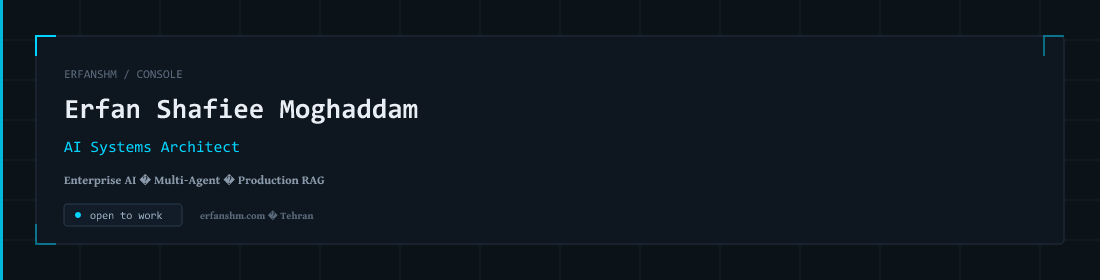
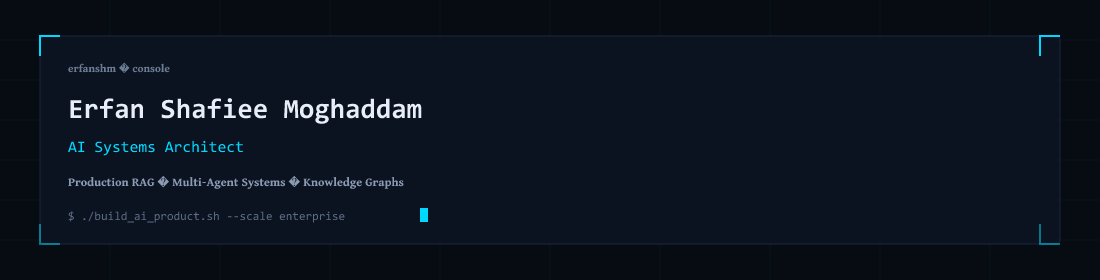
Enhance README.md with updated visuals and content structure; modify SVG assets for improved aesthetics and consistency. Update GitHub stats workflow to reflect new color scheme and enhance session reel animation for better engagement.

diff --git a/README.md b/README.md
@@ -1,111 +1,152 @@
 <!--
   ErfanShm Profile README
-  Moderate console aesthetic · cyan #00d4ff · light HUD cues (not full cyberpunk)
+  Moderate console top (cyan HUD) + live pulse charts
+  Accent: #00d9ff
 -->
 
 <p align="center">
-  <img src="./assets/hero-banner.png" alt="Erfan Shafiee Moghaddam" width="100%" />
+  <img src="./assets/hero-banner.png" alt="Erfan Shafiee Moghaddam — AI Systems Architect" width="100%" />
 </p>
 
 <p align="center">
-  <a href="https://erfanshm.com"><img src="https://img.shields.io/badge/Website-erfanshm.com-0b1218?style=flat-square&logo=googlechrome&logoColor=00d4ff&labelColor=0b1218&color=121c28" alt="Website" /></a>
-  <a href="https://www.linkedin.com/in/erfan-shafiee-moghadam-"><img src="https://img.shields.io/badge/LinkedIn-0b1218?style=flat-square&logo=linkedin&logoColor=00d4ff&labelColor=0b1218&color=121c28" alt="LinkedIn" /></a>
-  <a href="mailto:erfanshm12@gmail.com"><img src="https://img.shields.io/badge/Email-erfanshm12%40gmail.com-0b1218?style=flat-square&logo=gmail&logoColor=00d4ff&labelColor=0b1218&color=121c28" alt="Email" /></a>
-  <img src="https://komarev.com/ghpvc/?username=ErfanShm&style=flat-square&color=121c28&label=views" alt="Views" />
+  <a href="https://erfanshm.com"><img src="https://img.shields.io/badge/Website-erfanshm.com-070b12?style=flat-square&logo=googlechrome&logoColor=00d9ff&labelColor=0b1220&color=0b1220" alt="Website" /></a>
+  <a href="mailto:erfanshm12@gmail.com"><img src="https://img.shields.io/badge/Email-erfanshm12%40gmail.com-070b12?style=flat-square&logo=gmail&logoColor=00d9ff&labelColor=0b1220&color=0b1220" alt="Email" /></a>
+  <a href="https://www.linkedin.com/in/erfan-shafiee-moghadam-"><img src="https://img.shields.io/badge/LinkedIn-Connect-070b12?style=flat-square&logo=linkedin&logoColor=00d9ff&labelColor=0b1220&color=0b1220" alt="LinkedIn" /></a>
+  <img src="https://komarev.com/ghpvc/?username=ErfanShm&style=flat-square&color=0b1220&label=views" alt="Profile views" />
 </p>
 
 <p align="center">
-  <img src="https://readme-typing-svg.demolab.com?font=Fira+Code&weight=500&size=18&duration=3200&pause=900&color=00D4FF&center=true&vCenter=true&width=700&height=32&lines=AI+Systems+Architect;Production+RAG+%26+Multi-Agent+Workflows;Enterprise+AI+that+ships" alt="Typing" />
+  <img src="https://readme-typing-svg.demolab.com?font=Fira+Code&weight=500&size=18&duration=3200&pause=900&color=00D9FF&center=true&vCenter=true&width=720&height=32&lines=AI+Systems+Architect;Production+RAG+%26+Multi-Agent+Workflows;I+turn+complex+AI+into+enterprise+products" alt="Typing" />
 </p>
 
 <p align="center">
-  <img src="./assets/divider.png" width="50%" alt="" />
+  <img src="./assets/divider.png" alt="" width="50%" />
 </p>
+
+### about
+
+I turn complex AI concepts into **enterprise-ready products** — Production RAG, multi-agent workflows, and knowledge graphs that ship (UGAP, UTEX, KNIGHT).
+
+Open to agent, RAG, and backend automation work · Tehran · Hybrid / Remote
 
 <p align="center">
-  <img src="./assets/session-reel.svg" width="95%" alt="Session" />
+  <img src="./assets/divider.png" alt="" width="50%" />
 </p>
-
-<p align="center">
-  <img src="./assets/hud-strip.png" width="95%" alt="Focus strip" />
-</p>
-
-I design **Production RAG** and multi-agent systems that solve real business problems — UGAP, UTEX, and [KNIGHT](https://github.com/ErfanShm/knight-mcq) (CPAL 2026).
 
 ### selected work
 
-| | Project | Notes |
-|:-:|:--------|:------|
-| 01 | **[KNIGHT](https://github.com/ErfanShm/knight-mcq)** | Knowledge-graph MCQ eval · PyPI · arXiv:2602.20135 |
-| 02 | **UGAP** | Production RAG · 7+ collections · WebSocket streaming |
-| 03 | **UTEX** | Editorial AI gateway · 35+ endpoints · billing / RBAC |
-| 04 | **[ChatDoc](https://github.com/ErfanShm/ChatDoc)** | Document RAG chatbot |
+<p align="center">
+  <img src="./assets/hud-work.png" alt="Selected work" width="95%" />
+</p>
 
 <p align="center">
-  <a href="https://erfanshm.com"><img src="https://img.shields.io/badge/case_studies-erfanshm.com-0b1218?style=flat-square&labelColor=0b1218&color=00d4ff" alt="Portfolio" /></a>
+  <a href="https://github.com/ErfanShm/knight-mcq"><img src="https://img.shields.io/badge/KNIGHT-repo-0b1220?style=flat-square&labelColor=0b1220&color=00d9ff" alt="KNIGHT" /></a>
+  <a href="https://github.com/ErfanShm/ChatDoc"><img src="https://img.shields.io/badge/ChatDoc-repo-0b1220?style=flat-square&labelColor=0b1220&color=1a2740" alt="ChatDoc" /></a>
+  <a href="https://erfanshm.com"><img src="https://img.shields.io/badge/case_studies-erfanshm.com-0b1220?style=flat-square&labelColor=0b1220&color=1a2740" alt="Portfolio" /></a>
+</p>
+
+<details>
+<summary>more ships</summary>
+<br/>
+
+- [Sentiment & Emotion App](https://github.com/ErfanShm/sentiment-emotion-analysis-app)
+- More on [erfanshm.com](https://erfanshm.com)
+
+</details>
+
+<p align="center">
+  <img src="./assets/divider.png" alt="" width="50%" />
 </p>
 
 ### career
 
 ```text
-2025–2026  AI Engineer & RAG Architect     · MemaranSoft
-2024–2026  AI Software Developer           · SmartEra
-2024       GenAI Intern                    · Asr Gooyesh Pardaz
-2021–2023  System Analyst & Front-End      · Barsa / Rismun
+2025–2026  AI Engineer & RAG Architect     @ MemaranSoft
+2024–2026  AI Software Developer           @ SmartEra Organization
+2024       GenAI Intern                    @ Asr Gooyesh Pardaz
+2021–2023  System Analyst & Front-End Dev  @ Barsa Novin Ray & Rismun
 ```
 
 <details>
-<summary>details</summary>
+<summary>expand roles</summary>
 <br/>
 
-**MemaranSoft** — UGAP + UTEX architecture  
-**SmartEra** — Neo4j fact-checking · LangGraph · prompt systems  
-**Education** — B.S. Software Engineering, ATU · GPA 3.5
+**MemaranSoft** — UGAP (7+ vector collections, WebSocket streaming) · UTEX (35+ endpoint gateway, billing, RBAC)
+
+**SmartEra** — Neo4j fact-checking KG · prompt optimizer · LangGraph · n8n/Zapier
+
+**Asr Gooyesh** — Telegram/Bale RAG bots · pip sentiment package
+
+**Research** — [KNIGHT](https://github.com/ErfanShm/knight-mcq) · CPAL 2026 · arXiv:2602.20135 · B.S. Software Eng (ATU)
 
 </details>
 
-### stack
+<p align="center">
+  <img src="./assets/divider.png" alt="" width="50%" />
+</p>
+
+### toolchain
 
 <p align="center">
-  <img src="https://skillicons.dev/icons?i=python,fastapi,docker,postgres,redis,neo4j,linux,git,github&perline=9" alt="Stack" />
+  <img src="https://skillicons.dev/icons?i=python,fastapi,docker,postgres,redis,neo4j,linux,git,github,vscode&perline=10" alt="Stack" />
 </p>
 
 <p align="center">
-  <img src="https://img.shields.io/badge/LangChain-121c28?style=flat-square&labelColor=0b1218" alt="LangChain" />
-  <img src="https://img.shields.io/badge/LangGraph-121c28?style=flat-square&labelColor=0b1218" alt="LangGraph" />
-  <img src="https://img.shields.io/badge/RAG-00d4ff?style=flat-square&labelColor=0b1218&color=00d4ff" alt="RAG" />
-  <img src="https://img.shields.io/badge/Agents-121c28?style=flat-square&labelColor=0b1218" alt="Agents" />
+  <img src="https://img.shields.io/badge/LangChain-1a2740?style=flat-square&labelColor=0b1220" alt="LangChain" />
+  <img src="https://img.shields.io/badge/LangGraph-1a2740?style=flat-square&labelColor=0b1220" alt="LangGraph" />
+  <img src="https://img.shields.io/badge/RAG-00d9ff?style=flat-square&labelColor=0b1220&color=00d9ff" alt="RAG" />
+  <img src="https://img.shields.io/badge/Agents-1a2740?style=flat-square&labelColor=0b1220" alt="Agents" />
+  <img src="https://img.shields.io/badge/FAISS-1a2740?style=flat-square&labelColor=0b1220" alt="FAISS" />
+  <img src="https://img.shields.io/badge/n8n-1a2740?style=flat-square&labelColor=0b1220" alt="n8n" />
+</p>
+
+<p align="center">
+  <img src="./assets/divider.png" alt="" width="50%" />
 </p>
 
 ### pulse
 
 <p align="center">
-  <img height="155" src="./profile/stats.svg" alt="Stats" />
-  <img height="155" src="./profile/top-langs.svg" alt="Languages" />
+  <img height="160" src="./profile/stats.svg" alt="GitHub stats" />
+  <img height="160" src="./profile/top-langs.svg" alt="Top languages" />
 </p>
 
 <p align="center">
-  <img src="https://streak-stats.demolab.com?user=ErfanShm&theme=dark&hide_border=true&ring=00d4ff&fire=00d4ff&currStreakLabel=00d4ff&sideLabels=8a9aaa&dates=5a6a7a&background=0b1218" alt="Streak" />
+  <img src="https://streak-stats.demolab.com?user=ErfanShm&theme=dark&hide_border=true&ring=00d9ff&fire=00d9ff&currStreakLabel=00d9ff&sideLabels=8b9bb4&dates=5c6b82&background=0b1220" alt="Streak" />
+</p>
+
+<p align="center">
+  <img src="https://github-profile-summary-cards.vercel.app/api/cards/profile-details?username=ErfanShm&theme=github_dark" width="95%" alt="Profile details" />
+</p>
+
+<p align="center">
+  <img height="155" src="https://github-profile-summary-cards.vercel.app/api/cards/productive-time?username=ErfanShm&theme=github_dark&utcOffset=3.5" alt="Productive time" />
+  <img height="155" src="https://github-profile-summary-cards.vercel.app/api/cards/repos-per-language?username=ErfanShm&theme=github_dark" alt="Repos per language" />
 </p>
 
 <p align="center">
   <picture>
     <source media="(prefers-color-scheme: dark)" srcset="https://raw.githubusercontent.com/ErfanShm/ErfanShm/output/github-contribution-grid-snake-dark.svg" />
     <source media="(prefers-color-scheme: light)" srcset="https://raw.githubusercontent.com/ErfanShm/ErfanShm/output/github-contribution-grid-snake.svg" />
-    <img alt="Snake" src="https://raw.githubusercontent.com/ErfanShm/ErfanShm/output/github-contribution-grid-snake.gif" width="95%" />
+    <img alt="Contribution snake" src="https://raw.githubusercontent.com/ErfanShm/ErfanShm/output/github-contribution-grid-snake.gif" width="95%" />
   </picture>
+</p>
+
+<p align="center">
+  <img src="./assets/divider.png" alt="" width="50%" />
 </p>
 
 ### connect
 
 <p align="center">
-  <a href="https://erfanshm.com"><img src="https://img.shields.io/badge/Portfolio-0b1218?style=flat-square&logo=vercel&logoColor=00d4ff&labelColor=0b1218&color=121c28" alt="Portfolio" /></a>
-  <a href="https://www.linkedin.com/in/erfan-shafiee-moghadam-"><img src="https://img.shields.io/badge/LinkedIn-0b1218?style=flat-square&logo=linkedin&logoColor=00d4ff&labelColor=0b1218&color=121c28" alt="LinkedIn" /></a>
-  <a href="https://huggingface.co/ErfanShm"><img src="https://img.shields.io/badge/HuggingFace-0b1218?style=flat-square&logo=huggingface&logoColor=00d4ff&labelColor=0b1218&color=121c28" alt="HF" /></a>
-  <a href="https://www.kaggle.com/erfanshafieeaa"><img src="https://img.shields.io/badge/Kaggle-0b1218?style=flat-square&logo=kaggle&logoColor=00d4ff&labelColor=0b1218&color=121c28" alt="Kaggle" /></a>
-  <a href="mailto:erfanshm12@gmail.com"><img src="https://img.shields.io/badge/Email-00d4ff?style=flat-square&logo=gmail&logoColor=0b1218&labelColor=0b1218&color=00d4ff" alt="Email" /></a>
+  <a href="https://erfanshm.com"><img src="https://img.shields.io/badge/Portfolio-erfanshm.com-0b1220?style=flat-square&logo=vercel&logoColor=00d9ff&labelColor=0b1220&color=0b1220" alt="Portfolio" /></a>
+  <a href="https://www.linkedin.com/in/erfan-shafiee-moghadam-"><img src="https://img.shields.io/badge/LinkedIn-0b1220?style=flat-square&logo=linkedin&logoColor=00d9ff&labelColor=0b1220&color=0b1220" alt="LinkedIn" /></a>
+  <a href="https://huggingface.co/ErfanShm"><img src="https://img.shields.io/badge/HuggingFace-0b1220?style=flat-square&logo=huggingface&logoColor=00d9ff&labelColor=0b1220&color=0b1220" alt="HF" /></a>
+  <a href="https://www.kaggle.com/erfanshafieeaa"><img src="https://img.shields.io/badge/Kaggle-0b1220?style=flat-square&logo=kaggle&logoColor=00d9ff&labelColor=0b1220&color=0b1220" alt="Kaggle" /></a>
+  <a href="https://medium.com/@erfanshm12"><img src="https://img.shields.io/badge/Medium-0b1220?style=flat-square&logo=medium&logoColor=00d9ff&labelColor=0b1220&color=0b1220" alt="Medium" /></a>
+  <a href="mailto:erfanshm12@gmail.com"><img src="https://img.shields.io/badge/Email-Say_hello-0b1220?style=flat-square&logo=gmail&logoColor=070b12&labelColor=0b1220&color=00d9ff" alt="Email" /></a>
 </p>
 
 <p align="center">
-  <sub>© 2026 · <a href="https://erfanshm.com">erfanshm.com</a> · open to agent / RAG / automation work</sub>
+  <sub>© 2026 · <a href="https://erfanshm.com">erfanshm.com</a> · where AI meets product · accent <code>#00d9ff</code></sub>
 </p>
